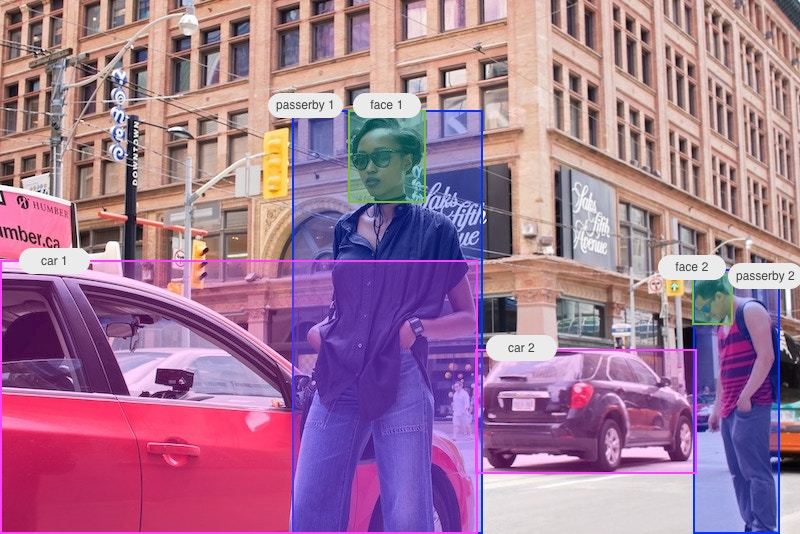
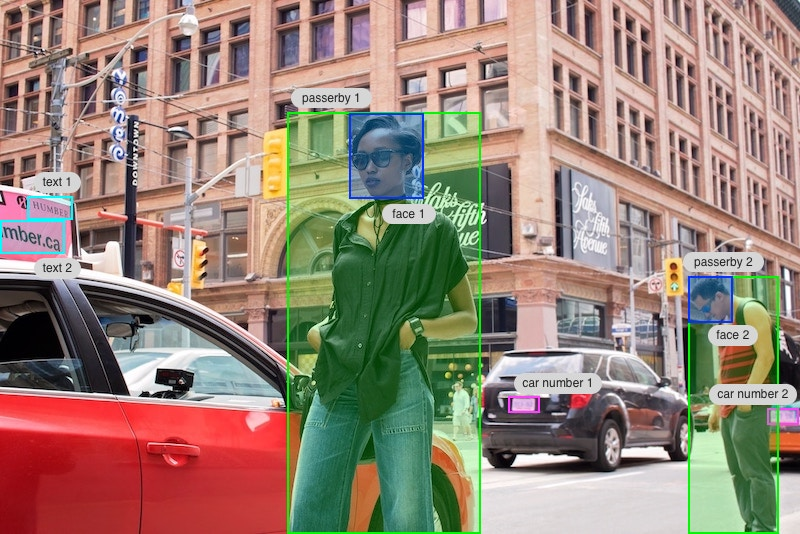
feat: top page

diff --git a/_site/index.html b/_site/index.html
@@ -189,7 +189,7 @@ fjs.parentNode.insertBefore(js, fjs);
                 <div class="col s12 m6">
                     <div class="check-icon-to-detect-internal-div">
                         <i class="small material-icons check-icon-to-detect">check_circle</i>
-                        <span>車</span>
+                        <span>車のナンバー</span>
                     </div>
                 </div>
                 <div class="col s12 m6">
@@ -201,7 +201,7 @@ fjs.parentNode.insertBefore(js, fjs);
                 <div class="col s12 m6">
                     <div class="check-icon-to-detect-internal-div">
                         <i class="small material-icons check-icon-to-detect">check_circle</i>
-                        <span>窓</span>
+                        <span>テキスト</span>
                     </div>
                 </div>
                 <div class="col s12 m6">

diff --git a/index.html b/index.html
@@ -89,7 +89,7 @@ title: Home
                 <div class="col s12 m6">
                     <div class="check-icon-to-detect-internal-div">
                         <i class="small material-icons check-icon-to-detect">check_circle</i>
-                        <span>車</span>
+                        <span>車のナンバー</span>
                     </div>
                 </div>
                 <div class="col s12 m6">
@@ -101,7 +101,7 @@ title: Home
                 <div class="col s12 m6">
                     <div class="check-icon-to-detect-internal-div">
                         <i class="small material-icons check-icon-to-detect">check_circle</i>
-                        <span>窓</span>
+                        <span>テキスト</span>
                     </div>
                 </div>
                 <div class="col s12 m6">
